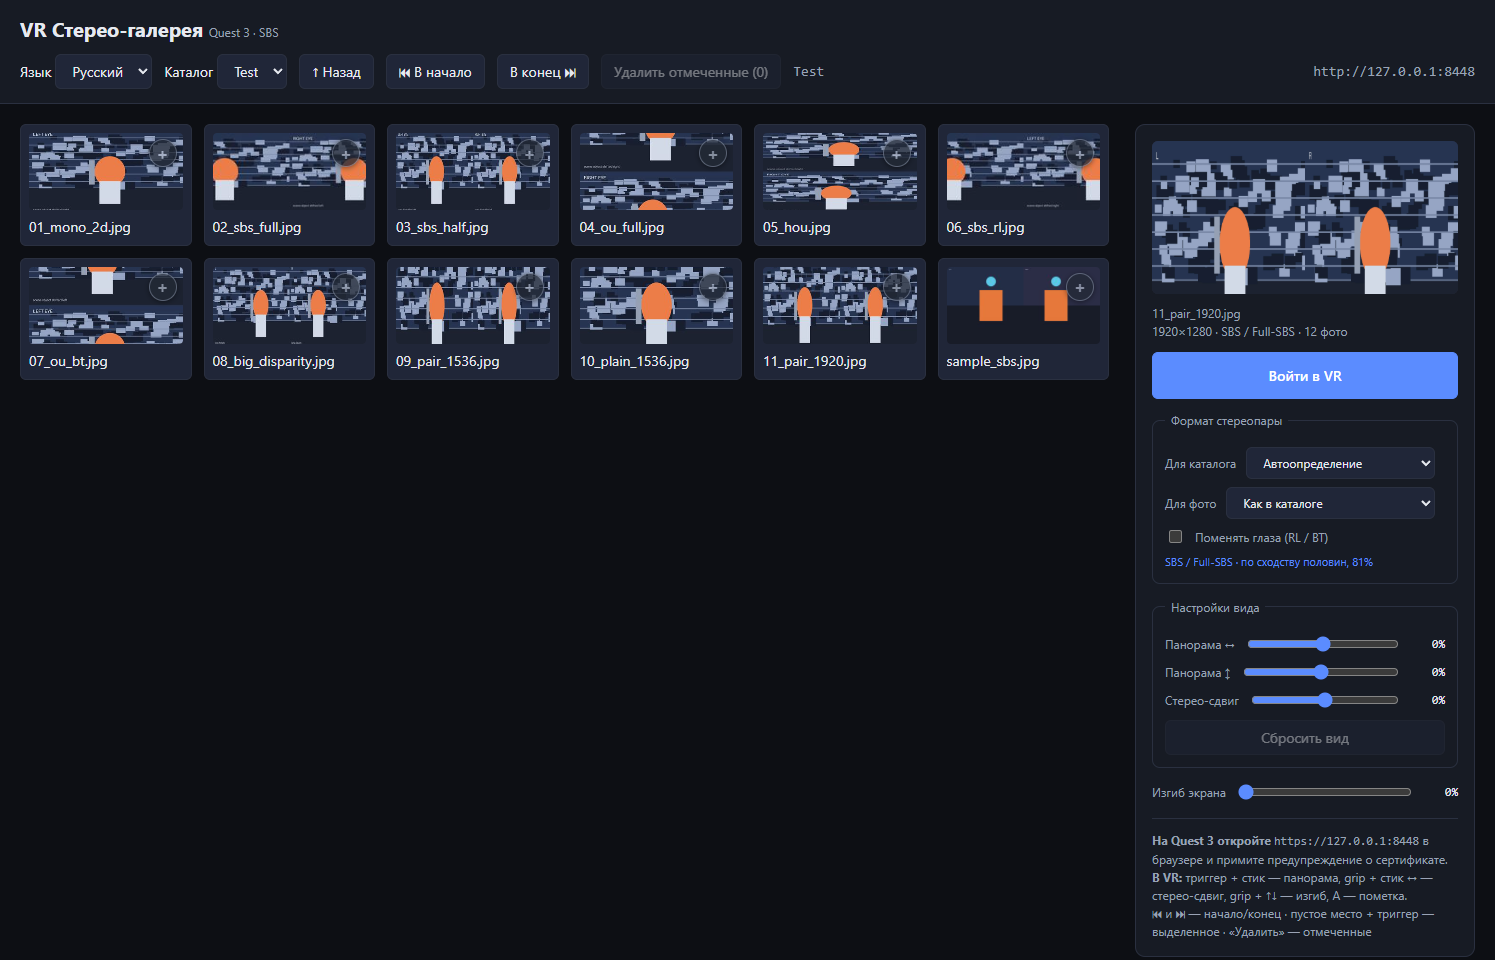
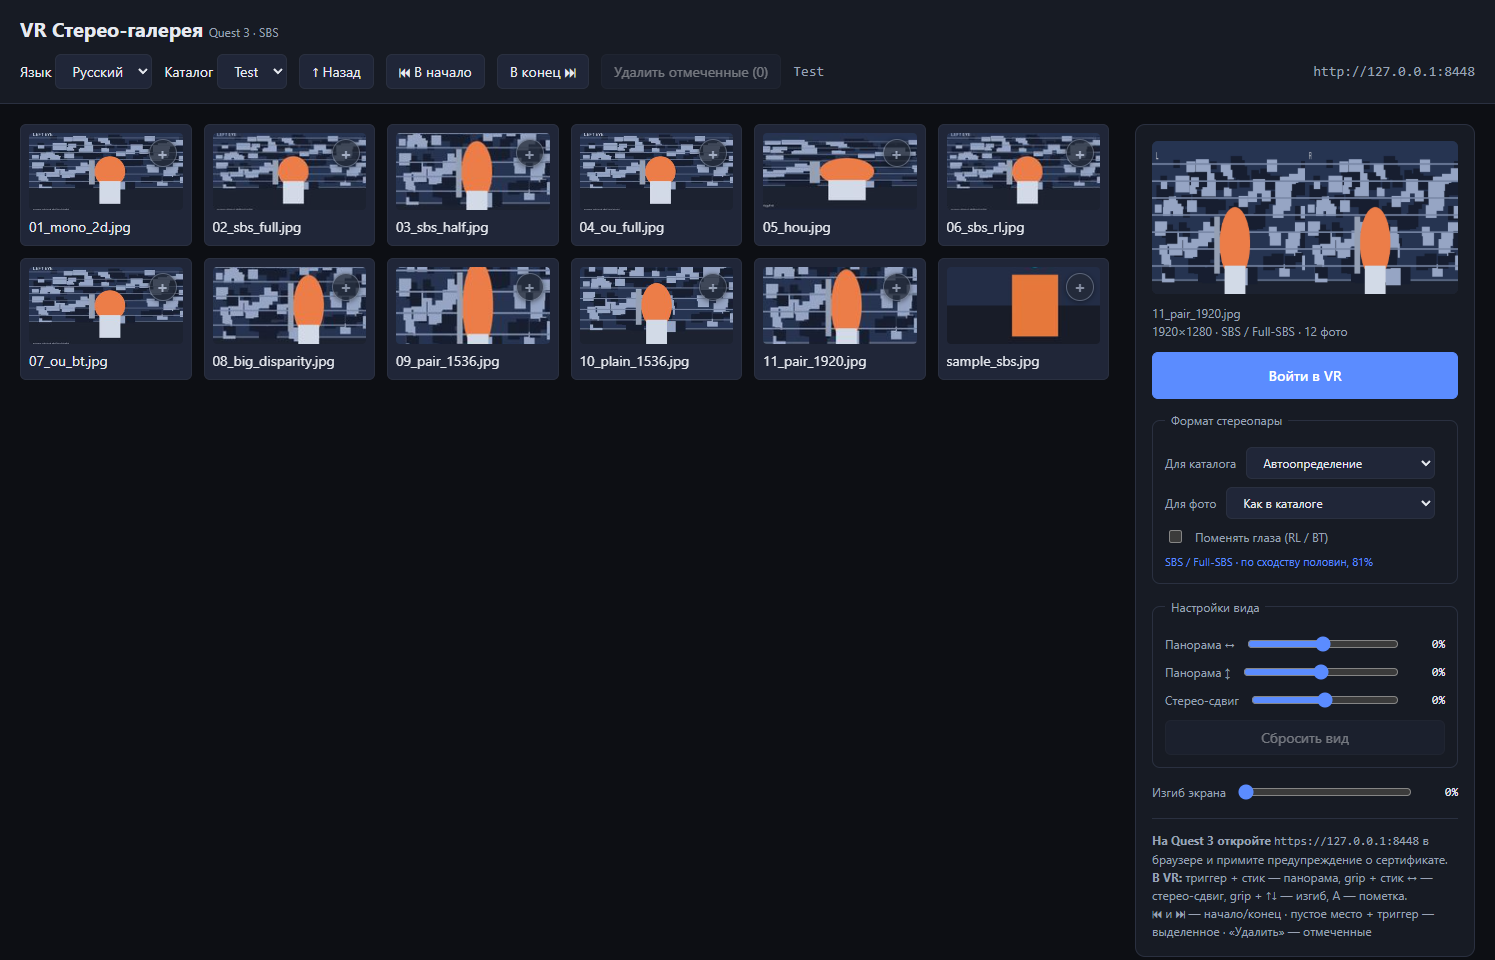
Make gallery thumbnails respect stereo layout settings

diff --git a/web/app.js b/web/app.js
@@ -77,6 +77,36 @@ function layoutUv(type, right, swap) {
   return { offset: [0, 0], scale: [1, 1] };
 }
 
+// Рисует один глаз стереопары в прямоугольник эскиза: формат и swap учитываются
+// теми же правилами, что и в VR. Лишнее обрезается по центру (аналог object-fit: cover).
+function layoutKey(entry) {
+  return `${state.rootId}|${state.rel}|${entry.path}`;
+}
+
+function drawEyeThumb(ctx, img, entry, dx, dy, dw, dh, known = null) {
+  const layout = known || state.confirmedLayout[layoutKey(entry)] || effectiveLayout(entry, img);
+  const uv = layoutUv(layout.type, false, layout.swap);
+  const sx = img.width * uv.offset[0];
+  const sy = img.height * (1 - uv.offset[1] - uv.scale[1]);
+  const sw = img.width * uv.scale[0];
+  const sh = img.height * uv.scale[1];
+  const scale = Math.max(dw / sw, dh / sh);
+  const outW = sw * scale;
+  const outH = sh * scale;
+  ctx.drawImage(img, sx, sy, sw, sh,
+    dx + (dw - outW) / 2, dy + (dh - outH) / 2, outW, outH);
+  return layout;
+}
+
+async function drawCardThumb(canvas, entry, known = null) {
+  const img = await loadImage(thumbUrl(entry));
+  const ctx = canvas.getContext('2d');
+  ctx.fillStyle = '#222838';
+  ctx.fillRect(0, 0, canvas.width, canvas.height);
+  const layout = drawEyeThumb(ctx, img, entry, 0, 0, canvas.width, canvas.height, known);
+  canvas.dataset.layout = layout.type;
+}
+
 // Луч попадает в плашку только по ее центральной области: промежутки между
 // плашками остаются «пустым местом» и не перехватывают выделение стиком.
 const HIT_W = CARD_W * 0.44;
@@ -98,7 +128,9 @@ const state = {
   view: { panX: 0, panY: 0, shift: 0 },
   layoutByRoot: {}, // ручные переопределения формата: root -> rel -> {type, swap}
   layoutDefaultByRoot: {}, // формат всего каталога: root -> тип (по умолчанию авто)
-  layoutCache: {}, // кэш автоопределения: root|rel -> результат
+  layoutCache: {}, // кэш автоопределения: root|rel|ширина -> результат
+  confirmedLayout: {}, // формат, уже определенный по полному изображению
+  thumbObserver: null, // ленивая отрисовка эскизов 2D-галереи
   photoLayout: { type: 'sbs', swap: false, detected: null, rootType: 'sbs', override: null },
   photoLayoutEntry: '',
   rootId: '',
@@ -416,7 +448,8 @@ function effectiveLayout(entry, img) {
   let swap = typeof override?.swap === 'boolean' ? override.swap : !!rc.swap;
   let detected = null;
   if (type === 'auto') {
-    const key = `${state.rootId}|${entry.path}`;
+    // Миниатюра и полное изображение могут дать разные результаты — держим их отдельно.
+    const key = `${state.rootId}|${entry.path}|${img.width}`;
     detected = state.layoutCache[key] || detectLayout(img, entry.name);
     state.layoutCache[key] = detected;
     type = detected.type;
@@ -531,6 +564,18 @@ function applyListing(data, clearSelection = true) {
 function renderGrid() {
   const grid = $('#grid');
   grid.replaceChildren();
+  state.thumbObserver?.disconnect();
+  state.thumbObserver = null;
+  const observer = ('IntersectionObserver' in window)
+    ? new IntersectionObserver((records) => {
+        for (const rec of records) {
+          if (!rec.isIntersecting) continue;
+          observer.unobserve(rec.target);
+          drawCardThumb(rec.target, rec.target._entry).catch(() => {});
+        }
+      }, { root: grid, rootMargin: '400px' })
+    : null;
+  state.thumbObserver = observer;
   for (const entry of state.entries) {
     const card = document.createElement('button');
     card.className = 'card';
@@ -548,11 +593,13 @@ function renderGrid() {
         list().catch(showError);
       });
     } else {
-      const thumb = document.createElement('img');
+      const thumb = document.createElement('canvas');
       thumb.className = 'thumb';
-      thumb.loading = 'lazy';
-      thumb.alt = '';
-      thumb.src = thumbUrl(entry);
+      thumb.width = 640;
+      thumb.height = 320;
+      thumb._entry = entry; // для ленивой отрисовки по появлению в сетке
+      if (observer) observer.observe(thumb);
+      else drawCardThumb(thumb, entry).catch(() => {});
       const badge = document.createElement('span');
       badge.className = 'pick';
       badge.textContent = state.selected.has(entry.path) ? '✓' : '+';
@@ -568,6 +615,12 @@ function renderGrid() {
     }
     grid.append(card);
   }
+}
+
+// Формат каталога/фото изменился — перерисовать эскизы в обеих галереях.
+function refreshThumbs() {
+  renderGrid();
+  loadGalleryPage();
 }
 
 function updateSelectionUI() {
@@ -733,6 +786,10 @@ async function loadPhoto(entry) {
   const img = await loadImage(imageUrl(entry));
   const imgAspect = img.width / img.height;
   const layout = effectiveLayout(entry, img);
+  state.confirmedLayout[layoutKey(entry)] = layout; // уточняем формат по полному изображению
+  for (const canvas of document.querySelectorAll('.card canvas.thumb')) {
+    if (canvas._entry === entry) drawCardThumb(canvas, entry, layout).catch(() => {});
+  }
   state.photoLayout = layout;
   state.photoLayoutEntry = entry?.path || '';
   state.aspect = rc.eyeAspect || layoutEyeAspect(layout.type, imgAspect);
@@ -781,12 +838,14 @@ function updateLayoutUI(entry, layout) {
 
 async function saveLayoutDefault() {
   const value = $('#layoutDirSelect')?.value || 'auto';
+  state.confirmedLayout = {}; // старые решения по полным изображениям больше не действуют
   if (value === 'auto') delete state.layoutDefaultByRoot[state.rootId];
   else state.layoutDefaultByRoot[state.rootId] = value;
   await saveState({ root: state.rootId, layoutDefault: value === 'auto' ? null : value });
   // Пересчитать aspect и UV текущей картинки с новым форматом каталога.
   const entry = state.entries[state.current];
   if (entry && entry.type === 'image') await loadPhoto(entry);
+  refreshThumbs();
 }
 
 async function saveLayoutOverride() {
@@ -801,6 +860,7 @@ async function saveLayoutOverride() {
     // Чтобы сохранить только swap, фиксируем текущий (возможно, определенный) тип.
     payload = { type: state.photoLayout?.type || 'sbs', swap };
   }
+  delete state.confirmedLayout[layoutKey(entry)];
   const map = state.layoutByRoot[state.rootId] || (state.layoutByRoot[state.rootId] = {});
   if (payload) map[entry.path] = { ...payload };
   else delete map[entry.path];
@@ -809,6 +869,7 @@ async function saveLayoutOverride() {
     // Пересчитать aspect и UV с новым форматом.
     await loadPhoto(entry);
   }
+  refreshThumbs();
 }
 
 function step(delta) {
@@ -1388,7 +1449,7 @@ async function makeCardCanvas(entry) {
   ctx.fillRect(0, 0, 512, 320);
   if (entry.type === 'image') {
     const img = await loadImage(thumbUrl(entry));
-    ctx.drawImage(img, 0, 0, 512, 256);
+    drawEyeThumb(ctx, img, entry, 0, 0, 512, 256);
   } else {
     ctx.font = '96px sans-serif';
     ctx.textAlign = 'center';

diff --git a/web/style.css b/web/style.css
@@ -152,6 +152,7 @@ button.primary + fieldset { margin-top: 12px; }
   place-items: center;
   font-size: 32px;
 }
+.card canvas.thumb { display: block; }
 .card span { overflow: hidden; text-overflow: ellipsis; white-space: nowrap; }
 
 .preview {

diff --git a/README.md b/README.md
@@ -90,6 +90,8 @@
 
 Приоритет: **переопределение фото → формат каталога → `config.json` → автоопределение**. Настройка каталога полезна как страховка, когда вся папка снята в одном формате, а детектор ошибается.
 
+Те же правила работают и для **эскизов**: в 2D-сетке и VR-галерее показывается один глаз с правильным кадрированием, а не весь файл. Эскизы перерисовываются при смене формата каталога или фото; после открытия полного изображения его уточненный результат применяется и к эскизу. Отрисовка ленивая — загружаются только эскизы рядом с видимой областью сетки.
+
 ### 2. Сгенерируйте сертификат
 
 ```bat

diff --git a/README.en.md b/README.en.md
@@ -91,6 +91,8 @@ The result is shown in the selected-image panel with a confidence score. Auto-de
 
 Priority: **image override → directory layout → `config.json` → auto-detection**. The directory setting is a safety net for folders where every photo uses the same format but the detector gets it wrong.
 
+The same rules apply to **thumbnails**: the 2D grid and the VR gallery show a single eye with correct cropping instead of the whole file. Thumbnails are redrawn when the directory or image layout changes, and the refined result from opening the full image is applied back to its thumbnail. Rendering is lazy — only thumbnails near the visible grid area are drawn.
+
 ### 2. Generate a certificate
 
 ```bat
